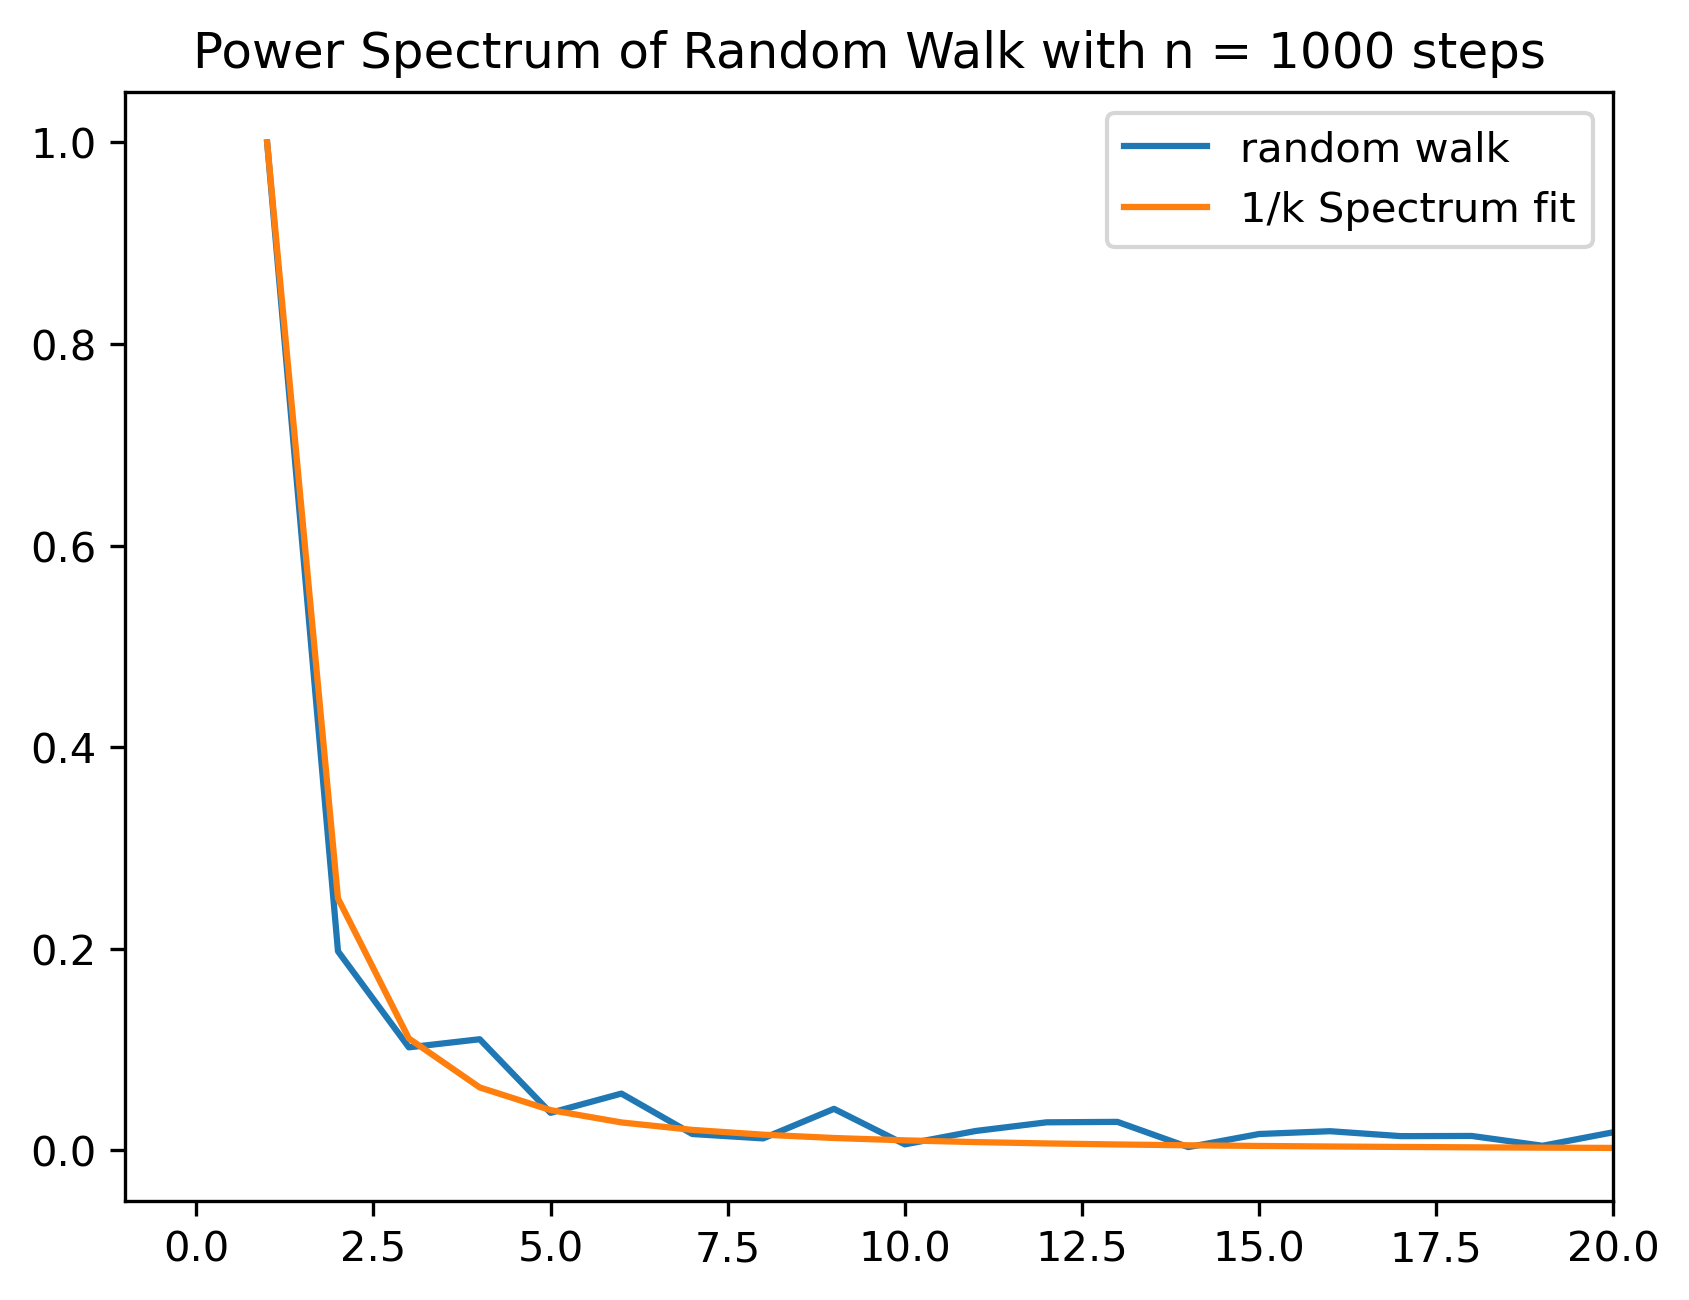
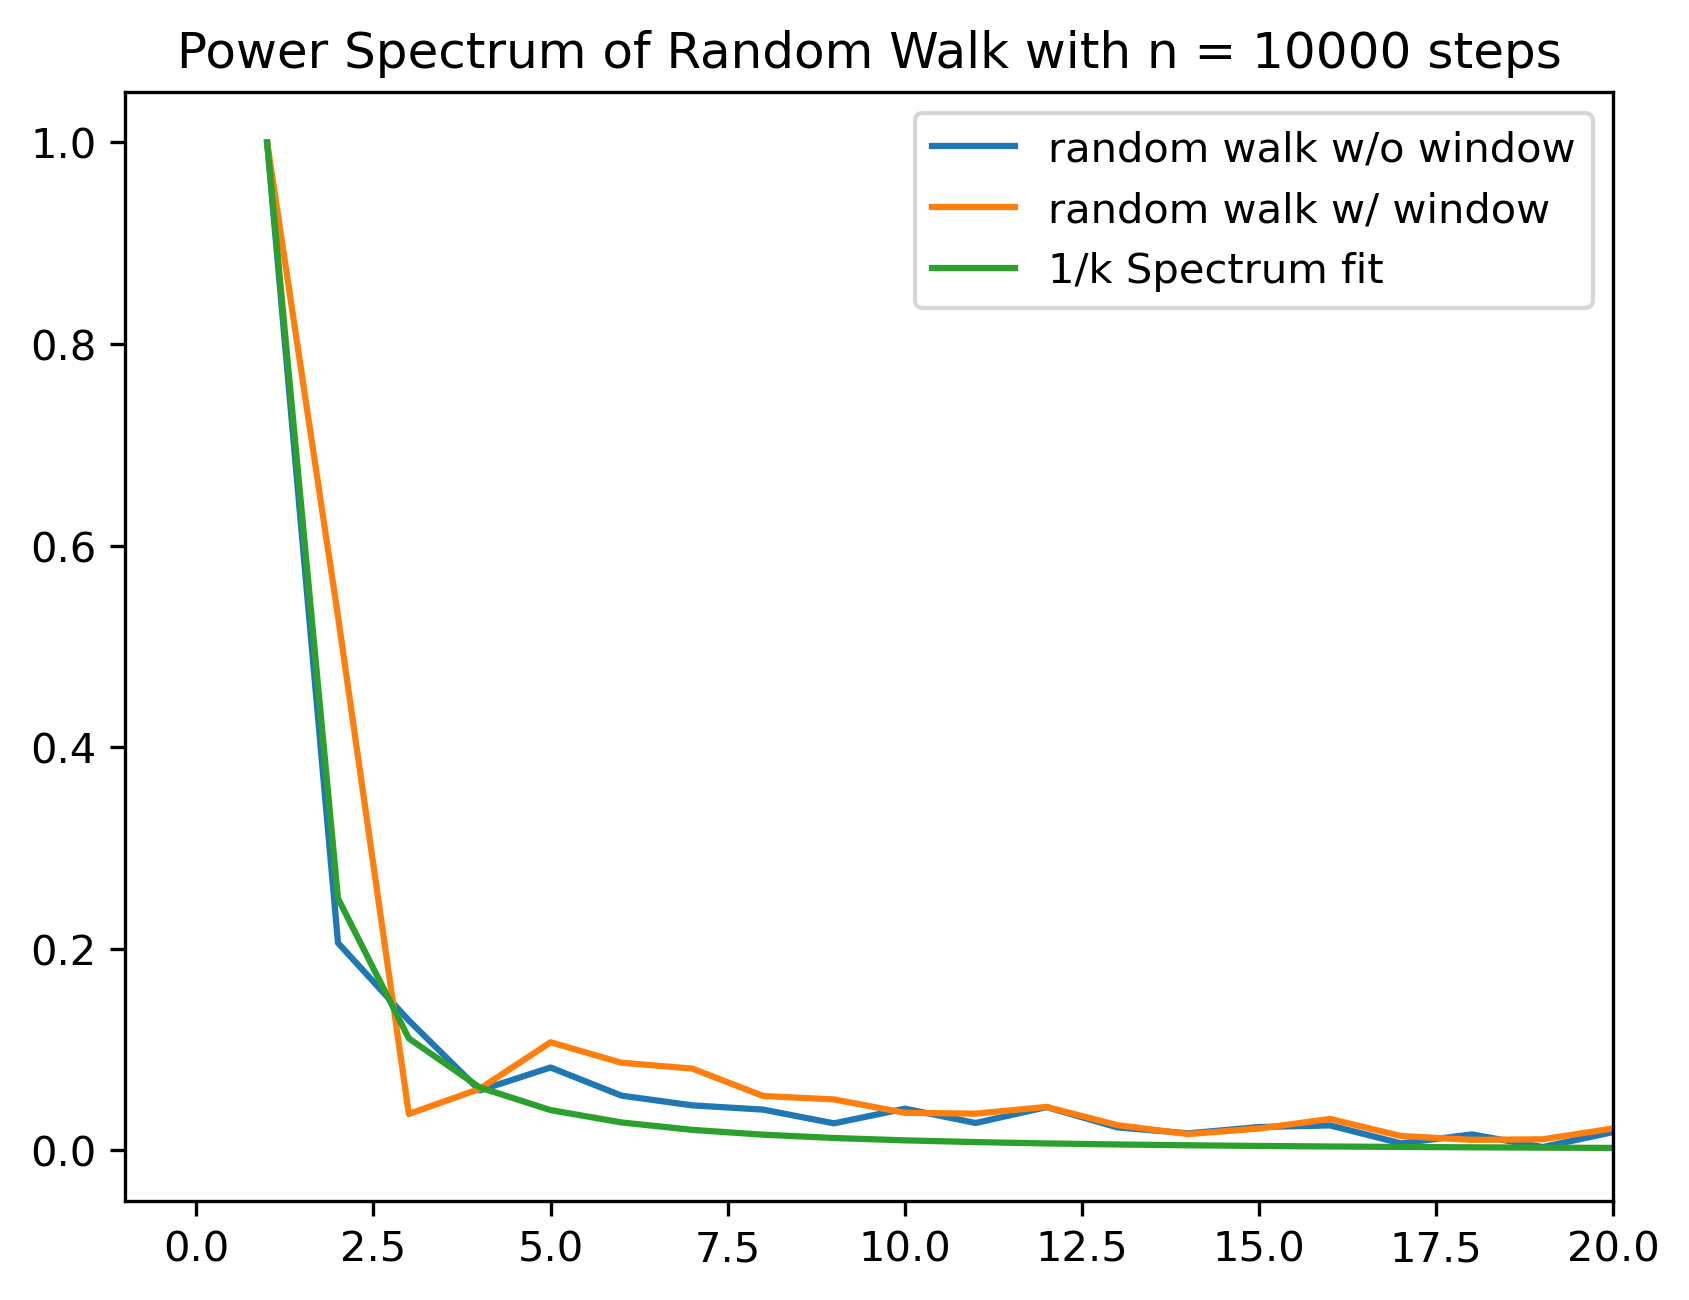
1122

diff --git a/problem_sets/ps5/p5_6.py b/problem_sets/ps5/p5_6.py
@@ -1,18 +1,39 @@
 import numpy as np
 from matplotlib import pyplot as plt
 
-n = 1001
+n = 10001
 x = np.arange(1,n+1)
+y = 1/x**2
 rw = np.cumsum(np.random.randn(n))
 rw_ft = np.abs(np.fft.fft(rw))
 rw_ft = rw_ft/np.max(rw_ft)
 
+win =  0.5 - 0.5*np.cos(2*np.pi*x/n)
+rw_win = rw*win
+rw_win_ft = np.abs(np.fft.fft(rw_win))
+rw_win_ft = rw_win_ft/np.max(rw_win_ft)
+
+
+
+
 #plt.plot(rw)
-plt.plot(x ,rw_ft,label = 'random walk')
-plt.plot(x, 1/x**2, label = '1/k Spectrum fit')
+plt.plot(x ,rw_ft,label = 'random walk w/o window')
+plt.plot(x, rw_win_ft, label = 'random walk w/ window')
+plt.plot(x, y, label = '1/k Spectrum fit')
 plt.xlim(-1,20)
 plt.title(f'Power Spectrum of Random Walk with n = {n - 1} steps')
 plt.legend()
-plt.savefig(f'rw_ps.png',dpi = 300, bbox_inches = 'tight')
+#plt.savefig(f'rw_ps.png',dpi = 300, bbox_inches = 'tight')
 plt.show()
 
+chisq_win = np.sum((rw_win_ft[:21] - y[:21])**2/y[:21])
+chisq = np.sum((rw_ft[:21] - y[:21])**2/y[:21])
+print(f'A 1/x^2 model gives a chisq of {chisq} for unwindowed transform, which is desirable.')
+print(f'A 1/x^2 model gives a chisq of {chisq_win} for windowed transform, which is desirable.')
+
+
+tt = -3*x
+tf = np.abs(np.fft.fft(tt))/np.sum(np.abs(np.fft.fft(tt)))
+plt.plot(x,tf)
+plt.xlim(-1,20)
+plt.show()
